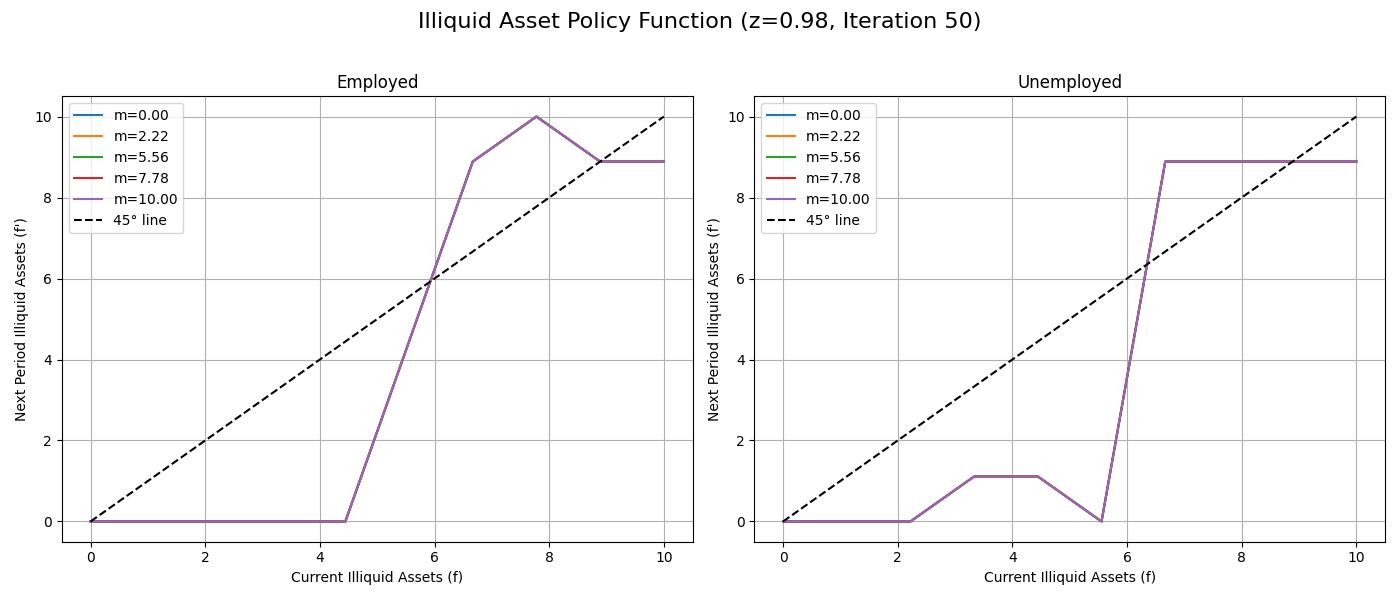
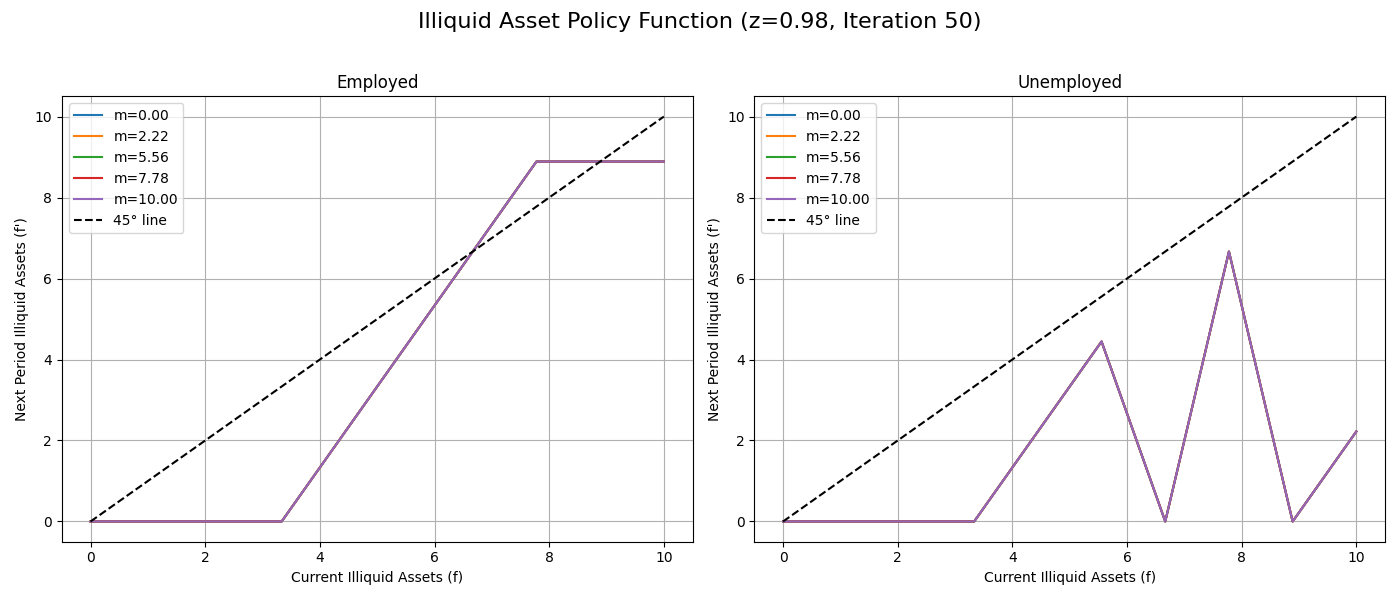
speed_up_cm

diff --git a/first_attempt.py b/first_attempt.py
@@ -622,17 +622,76 @@ class LagosWrightAiyagariSolver:
             'policy_b_noshock': policy_b_noshock
         }
 
+    # @track_time
+    # def solve_cm_problem_vectorised(self, V_guess, prices):
+    #     """
+    #     BLOCK 1: Solve the CM problem.
+    #     Solve the policy functions for the CM.
+    #     Input: 
+    #         V_guess: Initial guess for value function V.
+    #         prices: Current prices [py, Rl, i]
+    #     Output:
+    #         Updated value function W and policy functions.
+    #     """
+    #     # Unpack prices
+    #     py = prices[0]
+    #     Rl = prices[1]
+    #     i = prices[2]
+
+    #     # Initialise value and policy functions
+    #     w_value = np.zeros((self.n_a, self.n_b, self.n_z, self.n_e))
+    #     policy_m = np.zeros_like(w_value)
+    #     policy_f = np.zeros_like(w_value)
+
+    #     # precompute firm problem
+    #     firm_result = self.firm_problem(prices)
+    #     wages = firm_result['wages']
+    #     P = firm_result['transition_matrix']
+
+    #     # Loop over employment status and skill types
+    #     for e_idx in range(self.n_e):
+    #         for z_idx in range(self.n_z):
+    #             income = wages[z_idx, e_idx]
+
+    #             # Vectorise over current state (a, b)
+    #             for a_idx, a in enumerate(self.a_grid):
+    #                 for b_idx, b in enumerate(self.b_grid):
+    #                     # Calculate total resources available (RHS of the budget constraint)
+    #                     total_resources = a + (1 + i) * b + income
+
+    #                     # Initialise choice array
+    #                     w_choice = np.full((self.n_m, self.n_f), -1e3)  # Default to a very negative
+
+    #                     # to do: this part can be precomputed
+    #                     # Calculate continuation values for valid portfolio combinations only
+    #                     for m_idx, m_prime in enumerate(self.m_grid):
+    #                         for f_idx, f_prime in enumerate(self.f_grid):
+
+    #                             # Calculate consumption
+    #                             c = total_resources - f_prime / Rl - m_prime / self.Rm
+
+    #                             if c >= self.c_min:  # a small consumption level
+    #                                 # Expected value over employment transitions
+    #                                 v_cont = V_guess[m_idx, f_idx, z_idx, :] @ P[e_idx, :]
+    #                                 w_choice[m_idx, f_idx] = self.utility(c) + self.beta * v_cont
+
+    #                     # Find the maximum value and corresponding indices
+    #                     max_val = np.max(w_choice)
+    #                     max_indices = np.unravel_index(np.argmax(w_choice), w_choice.shape)
+
+    #                     # Store the maximum value and corresponding policies
+    #                     w_value[a_idx, b_idx, z_idx, e_idx] = max_val
+    #                     policy_m[a_idx, b_idx, z_idx, e_idx] = self.m_grid[max_indices[0]]
+    #                     policy_f[a_idx, b_idx, z_idx, e_idx] = self.f_grid[max_indices[1]]
+    #     # Return updated value function and policy functions
+    #     return {
+    #         'W': w_value,
+    #         'policy_m': policy_m,
+    #         'policy_f': policy_f,
+    #     }
+    
     @track_time
     def solve_cm_problem_vectorised(self, V_guess, prices):
-        """
-        BLOCK 1: Solve the CM problem.
-        Solve the policy functions for the CM.
-        Input: 
-            V_guess: Initial guess for value function V.
-            prices: Current prices [py, Rl, i]
-        Output:
-            Updated value function W and policy functions.
-        """
         # Unpack prices
         py = prices[0]
         Rl = prices[1]
@@ -643,46 +702,56 @@ class LagosWrightAiyagariSolver:
         policy_m = np.zeros_like(w_value)
         policy_f = np.zeros_like(w_value)
 
-        # precompute firm problem
+        # Precompute firm problem
         firm_result = self.firm_problem(prices)
         wages = firm_result['wages']
         P = firm_result['transition_matrix']
 
+        # Precompute portfolio costs
+        m_grid_reshaped = self.m_grid.reshape(-1, 1)  # (n_m, 1)
+        f_grid_reshaped = self.f_grid.reshape(1, -1)  # (1, n_f)
+        portfolio_costs = m_grid_reshaped / self.Rm + f_grid_reshaped / Rl  # (n_m, n_f)
+
         # Loop over employment status and skill types
         for e_idx in range(self.n_e):
+            # Reshape transition probabilities for correct broadcasting
+            P_reshaped = P[e_idx, :].reshape(1, 1, -1)  # (1, 1, n_e)
+            
             for z_idx in range(self.n_z):
                 income = wages[z_idx, e_idx]
-
+                
+                # Get value function slice for current z_idx
+                V_slice = V_guess[:, :, z_idx, :]  # (n_m, n_f, n_e)
+                
+                # Calculate expected continuation value
+                cont_values = np.sum(V_slice * P_reshaped, axis=2)  # (n_m, n_f)
+                
                 # Vectorise over current state (a, b)
                 for a_idx, a in enumerate(self.a_grid):
                     for b_idx, b in enumerate(self.b_grid):
-                        # Calculate total resources available (RHS of the budget constraint)
+                        # Calculate total resources available
                         total_resources = a + (1 + i) * b + income
-
-                        # Initialise choice array
-                        w_choice = np.full((self.n_m, self.n_f), -1e3)  # Default to a very negative
-
-                        # to do: this part can be precomputed
-                        # Calculate continuation values for valid portfolio combinations only
-                        for m_idx, m_prime in enumerate(self.m_grid):
-                            for f_idx, f_prime in enumerate(self.f_grid):
-
-                                # Calculate consumption
-                                c = total_resources - f_prime / Rl - m_prime / self.Rm
-
-                                if c >= self.c_min:  # a small consumption level
-                                    # Expected value over employment transitions
-                                    v_cont = V_guess[m_idx, f_idx, z_idx, :] @ P[e_idx, :]
-                                    w_choice[m_idx, f_idx] = self.utility(c) + self.beta * v_cont
-
+                        
+                        # Calculate consumption for all portfolio combinations
+                        c_values = total_resources - portfolio_costs  # (n_m, n_f)
+                        
+                        # Create mask for valid consumption levels
+                        valid_c = c_values >= self.c_min  # (n_m, n_f)
+                        
+                        # Calculate utility and continuation value where consumption is valid
+                        w_choice = np.where(valid_c, 
+                                        self.utility(c_values) + self.beta * cont_values,
+                                        -1e3)  # (n_m, n_f)
+                        
                         # Find the maximum value and corresponding indices
                         max_val = np.max(w_choice)
                         max_indices = np.unravel_index(np.argmax(w_choice), w_choice.shape)
-
+                        
                         # Store the maximum value and corresponding policies
                         w_value[a_idx, b_idx, z_idx, e_idx] = max_val
                         policy_m[a_idx, b_idx, z_idx, e_idx] = self.m_grid[max_indices[0]]
                         policy_f[a_idx, b_idx, z_idx, e_idx] = self.f_grid[max_indices[1]]
+        
         # Return updated value function and policy functions
         return {
             'W': w_value,
